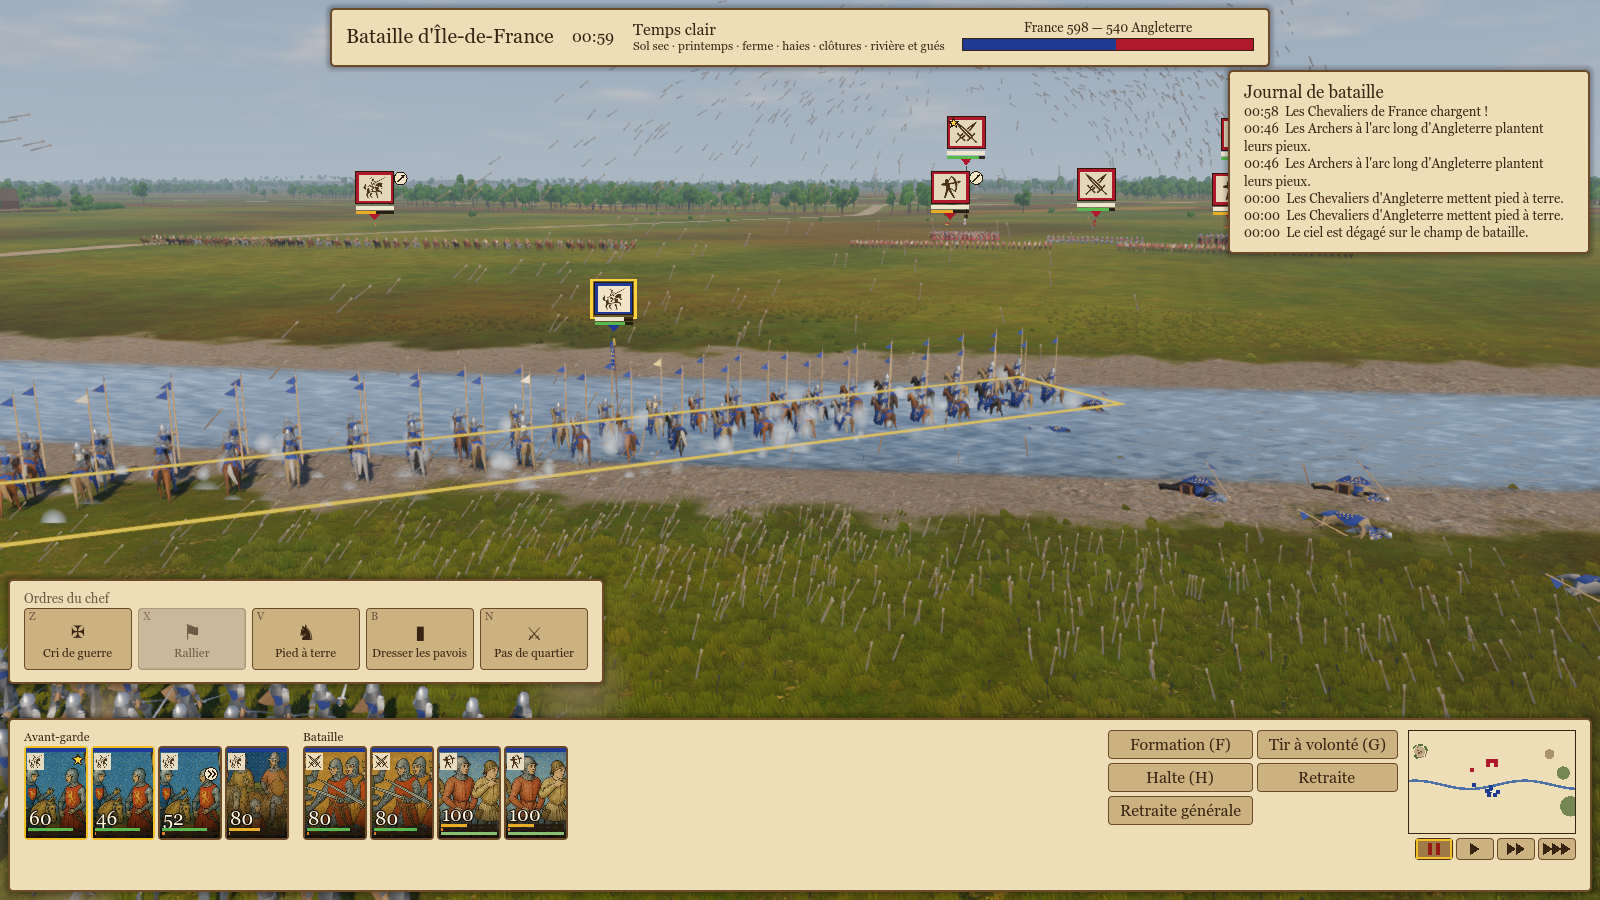
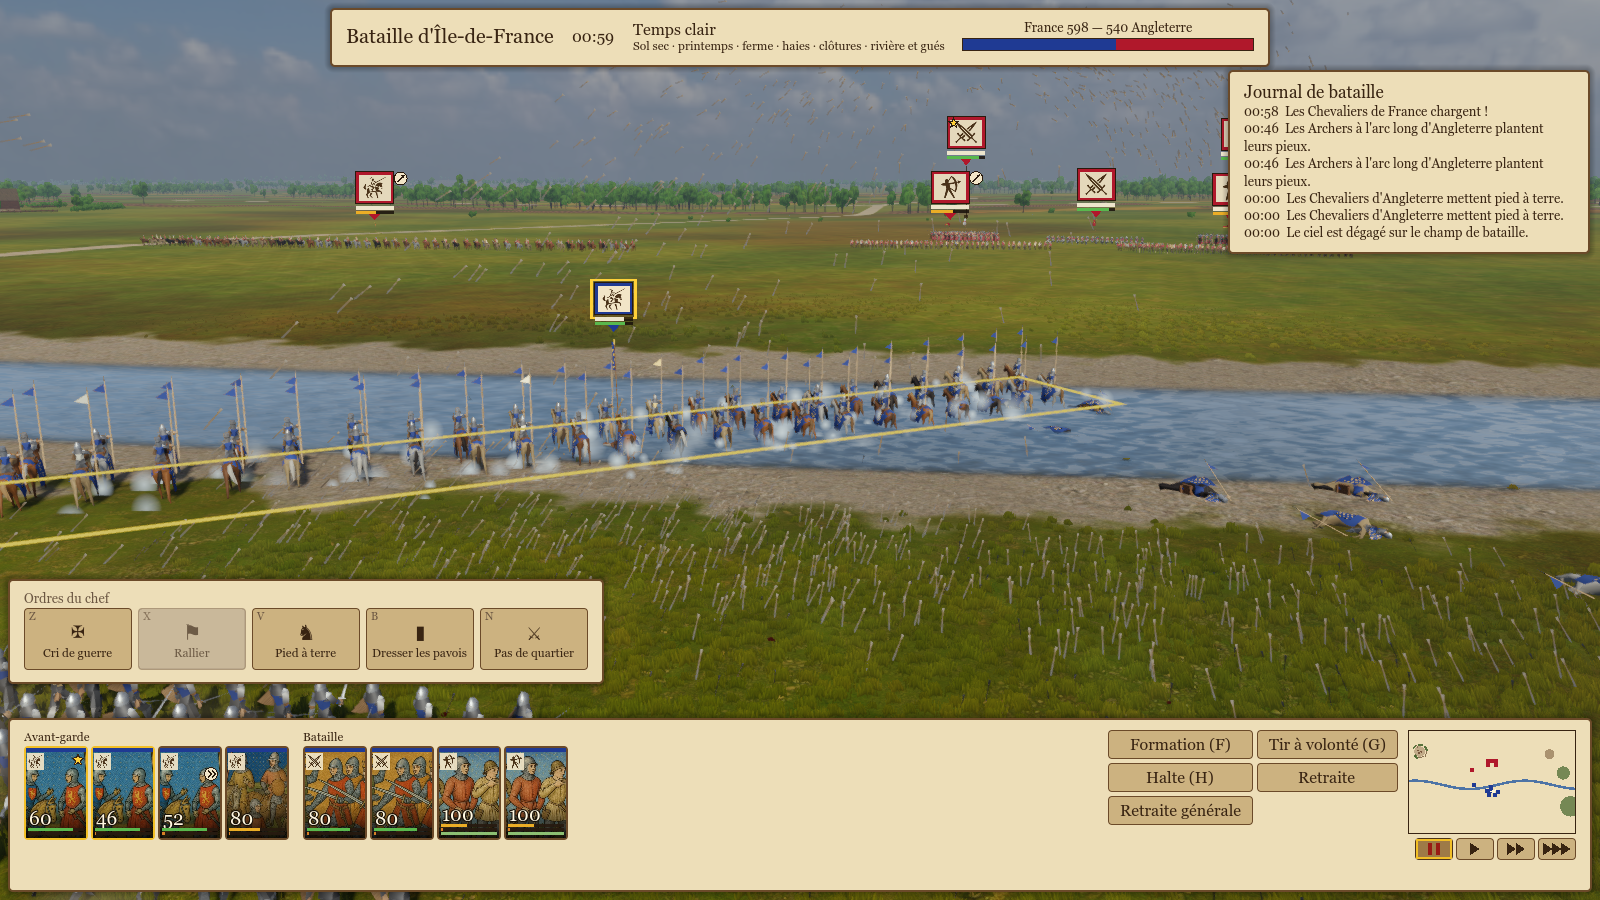
wip: BV1 final measurements after merging main

diff --git a/docs/wip/bv1-bataille-vivante.md b/docs/wip/bv1-bataille-vivante.md
@@ -1,6 +1,6 @@
 # Lot BV1 — Bataille vivante (1) : volées, sang au sol, poussière, taille des unités
 
-Branche `worktree-agent-a3fb69eecbaf4f8a1` (main fusionné à `817bc7fc`, avec V2 et AU1). Backlog :
+Branche `worktree-agent-a3fb69eecbaf4f8a1` (main fusionné en dernier à `821a4ceb` : V2, AU1, V3 et L1 compris). Backlog :
 `docs/audit/backlog-tw.md` § Bataille (idées J). Coordination : V2 (soldats VAT) possède le maillage
 et le shader des soldats, V3 l'environnement global et AU1 l'audio (bus, pool, banque). BV1 ne
 touche à aucun des trois : un seul point de contact avec V2, le nombre de figurines dans
@@ -83,6 +83,18 @@ entre passes atteignent ±30 %. Metal ne donne pas le temps GPU.
   sur cette bataille chargée).
 - « Avant » sur machine calme (début de session) : 99 FPS en moyenne pour `--units=20` et 122 pour
   la démo.
+
+### Après fusion de V2, AU1 et V3 (figurines skinnées, flammes dans une couche à part)
+Écran plafonné à 60 Hz (la synchro verticale est revenue avec la fusion). Temps de rendu CPU
+fourni par V3 ; Metal renvoie 0 pour le temps GPU.
+| Config (`--units=20`) | FPS (2 passes) | Primitives | Appels | Rendu CPU |
+|---|---|---|---|---|
+| sans BV1 | 58,7 / 58,7 | 2,43 M | 890 | 0,70-0,72 ms |
+| Normale | 58,4 / 58,7 | 2,61 M (+7 %) | 906 | 0,71-0,73 ms |
+| Ultra | 55,5 / 58,7 | 4,86 M (×2) | 907-911 | 0,75-0,90 ms |
+Série non plafonnée, avant cette fusion (4 paires alternées, machine chargée) : sans BV1 35,6 /
+44,7 / 81,4 / 43,3 et Normale 35,1 / 44,6 / 37,7 / 54,7. Parité hors la passe aberrante à 81,4.
+Sans rendu (headless), les deux configs tournent à 135,7 FPS : BV1 n'a pas de coût CPU mesurable.
 
 ## Captures (`docs/audit/captures/bv1/`)
 `avant_bataille_volee` / `apres_bataille_volee` (`--shot-at=59 --camera=600,360,45,200`, avec ou
